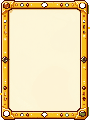
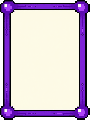
alfa 9f328dc: Fans of Swipe: marco morado para las reliquias y llama verde nueva para el fuego

diff --git a/alfa/index.html b/alfa/index.html
@@ -10,10 +10,10 @@
 <link rel="preconnect" href="https://fonts.googleapis.com">
 <link rel="preconnect" href="https://fonts.gstatic.com" crossorigin>
 <link rel="stylesheet" href="https://fonts.googleapis.com/css2?family=Baloo+2:wght@600;700;800&family=Luckiest+Guy&display=swap">
-<link rel="stylesheet" href="core/css/base.css?v=dfe9829">
-<link rel="stylesheet" href="biblioteca/tienda.css?v=dfe9829">
-<link rel="stylesheet" href="novedades/ventana.css?v=dfe9829">
-<link rel="stylesheet" href="biblioteca/votos.css?v=dfe9829">
+<link rel="stylesheet" href="core/css/base.css?v=9f328dc">
+<link rel="stylesheet" href="biblioteca/tienda.css?v=9f328dc">
+<link rel="stylesheet" href="novedades/ventana.css?v=9f328dc">
+<link rel="stylesheet" href="biblioteca/votos.css?v=9f328dc">
 <style>
   /* la entrada de la web: una tarjeta por juego, con los colores y las letras de core */
   body { overflow: auto; touch-action: auto; align-items: flex-start; background-repeat: no-repeat; background-attachment: fixed; }
@@ -61,7 +61,7 @@
 </style>
 </head>
 <body>
-<script src="menu.js?v=dfe9829" data-base="" data-core="1" data-pagina=""></script>
+<script src="menu.js?v=9f328dc" data-base="" data-core="1" data-pagina=""></script>
 <div class="nov-fondo" id="novedades" hidden>
   <div class="nov-caja" role="dialog" aria-modal="true" aria-labelledby="nov-titulo">
     <div class="nov-cabeza"><h2 class="ol" id="nov-titulo">NOVEDADES</h2><p id="nov-sub"></p></div>
@@ -339,8 +339,8 @@
   </section>
   <p class="note" id="pie-fansof">Fans Of™ · © 2026 Arkioner y Pepins · MicroBlizz · Todos los derechos reservados</p>
 </main>
-<script src="core/js/nucleo.js?v=0-a679.dfe9829"></script>
-<script src="core/js/novedades.js?v=dfe9829"></script>
+<script src="core/js/nucleo.js?v=0-a680.9f328dc"></script>
+<script src="core/js/novedades.js?v=9f328dc"></script>
 <script>
 // La cuenta de la web es la misma de los juegos (core/js/sistema/cuenta.js, mismo navegador = misma sesión). Aquí no hay partida que subir.
 const AJUSTES = { id: 'web', guardado: 'fansof-web' }, SAVE_KEY = AJUSTES.guardado, SAVE = {};
@@ -349,7 +349,7 @@ const HOOKS = {};
 function hook(name, fn) { (HOOKS[name] = HOOKS[name] || []).push(fn); }
 function fire(name, ...a) { let out = ''; for (const fn of HOOKS[name] || []) { const r = fn(...a); if (typeof r === 'string') out += r; } return out; }
 </script>
-<script src="core/js/sistema/cuenta.js?v=dfe9829"></script>
+<script src="core/js/sistema/cuenta.js?v=9f328dc"></script>
 <script>NUCLEO.idiomaSolo({ en: ['core/idioma/en-raiz.js', 'novedades/en.js', 'biblioteca/en.js','games/rumble/idioma/en-7.js', 'games/td/idioma/en-2.js', 'games/survivors/idioma/en.js', 'games/crush/idioma/en-raiz.js', 'games/jump/idioma/en-raiz.js', 'games/taxi/idioma/en-raiz.js', 'games/dark/idioma/en-raiz.js', 'games/nova/idioma/en-raiz.js', 'demos/beams/idioma/en-raiz.js', 'demos/snakes/idioma/en-raiz.js', 'demos/merge/idioma/en-raiz.js', 'demos/swipe/idioma/en-raiz.js', 'demos/pop/idioma/en-raiz.js', 'demos/vikings/idioma/en-raiz.js', 'demos/goose/idioma/en-raiz.js', 'demos/asalto/idioma/en-raiz.js', 'demos/auto/idioma/en-raiz.js', 'games/island/idioma/en-raiz.js', 'demos/rumble-3d/idioma/en-raiz.js', 'demos/roguelite/idioma/en-raiz.js', 'demos/tactics-advance/idioma/en-raiz.js', 'games/rouflage/idioma/en-raiz.js', 'demos/dungeons/idioma/en-raiz.js', 'games/karts/idioma/en-raiz.js', 'demos/recruit/idioma/en-raiz.js', 'demos/terminal-shock/idioma/en-raiz.js', 'games/ratkov/idioma/en-raiz.js'] })</script>
 <script>
 // La versión y las novedades salen de los archivos de cada juego, así que esta página nunca se queda atrás.
@@ -375,14 +375,14 @@ const fail = id => () => {
 };
 
 </script>
-<script src="core/js/proximamente.js?v=dfe9829"></script>
-<script src="novedades/ventana.js?v=dfe9829"></script>
-<script src="biblioteca/tienda.js?v=dfe9829"></script>
-<script src="core/js/sistema/beta.js?v=dfe9829"></script>
-<script src="biblioteca/cuenta-web.js?v=dfe9829"></script>
-<script src="biblioteca/votos.js?v=dfe9829"></script>
-<script src="biblioteca/alfa.js?v=dfe9829"></script>
-<script src="core/js/sistema/analitica.js?v=dfe9829"></script>
-<script src="pie.js?v=dfe9829" defer></script>
+<script src="core/js/proximamente.js?v=9f328dc"></script>
+<script src="novedades/ventana.js?v=9f328dc"></script>
+<script src="biblioteca/tienda.js?v=9f328dc"></script>
+<script src="core/js/sistema/beta.js?v=9f328dc"></script>
+<script src="biblioteca/cuenta-web.js?v=9f328dc"></script>
+<script src="biblioteca/votos.js?v=9f328dc"></script>
+<script src="biblioteca/alfa.js?v=9f328dc"></script>
+<script src="core/js/sistema/analitica.js?v=9f328dc"></script>
+<script src="pie.js?v=9f328dc" defer></script>
 </body>
 </html>

diff --git a/alfa/games/rouflage/index.html b/alfa/games/rouflage/index.html
@@ -10,7 +10,7 @@
 <link rel="preconnect" href="https://fonts.googleapis.com">
 <link rel="preconnect" href="https://fonts.gstatic.com" crossorigin>
 <link rel="stylesheet" href="https://fonts.googleapis.com/css2?family=Baloo+2:wght@600;700;800&family=Luckiest+Guy&display=swap">
-<script src="../../core/js/nucleo.js?v=0.2.63-a679.dfe9829"></script>
+<script src="../../core/js/nucleo.js?v=0.2.63-a680.9f328dc"></script>
 <script>NUCLEO.estilos('../../core/css/base.css', '../../core/css/menus.css', '../../core/css/menus-extra.css')</script>
 <script>NUCLEO.estilos('estilo.css', 'estilo-taller.css', 'estilo-pantallas.css', 'estilo-pvp.css', 'estilo-armario.css', 'estilo-menus.css', 'estilo-misiones.css', 'estilo-escenario.css', 'estilo-votos.css', 'estilo-gacha.css', 'estilo-compra.css', 'estilo-fin.css', 'estilo-talentos.css', 'estilo-chat.css', 'estilo-titulo.css', 'estilo-barra.css', 'estilo-sala-viva.css', 'estilo-obra.css', 'estilo-ayuda.css', 'estilo-carga.css')</script>      <!-- la intro, la última: pisa el #carga de estilo.css (antes iba en línea dentro de #carga) -->
 </head>

diff --git a/alfa/games/karts/index.html b/alfa/games/karts/index.html
@@ -8,7 +8,7 @@
 <meta name="description" content="Fans of Karts (juego): carreras de karts en pixel art de consola portátil con los líderes de Fans of Rumble. Tres pistas, seis pilotos, objetos con mala idea y Microblizz, que ha comprado la carrera.">
 <link rel="icon" type="image/png" href="img/icon-192.png">
 <link rel="apple-touch-icon" href="img/icon-192.png">
-<script src="../../core/js/nucleo.js?v=0.7.15-a679.dfe9829"></script>
+<script src="../../core/js/nucleo.js?v=0.7.15-a680.9f328dc"></script>
 <script>NUCLEO.estilos('../../core/css/base.css', '../../core/css/menus.css', '../../core/css/menus-tienda.css', '../../core/css/menus-extra.css', 'css/tienda.css', 'css/pvp.css')</script>
 <link rel="stylesheet" href="https://fonts.googleapis.com/css2?family=Baloo+2:wght@600;700;800&family=Luckiest+Guy&display=swap">
 <style>

diff --git a/alfa/games/dark/index.html b/alfa/games/dark/index.html
@@ -12,7 +12,7 @@
 <link rel="stylesheet" href="https://fonts.googleapis.com/css2?family=Baloo+2:wght@600;700;800&family=Luckiest+Guy&family=Press+Start+2P&family=Pixelify+Sans:wght@400;600;700&display=swap">
 <link rel="stylesheet" href="css/dark.css?v=0.2.4">
 <!-- Prototipo: no usa NUCLEO (tiene su propia partida guardada). Carga de core el arte, la música, los efectos y las cifras del Rumble.
-     VERSIÓN para desplegar.py (que la busca así): nucleo.js?v=0.2.7-a679.dfe9829' (aquí solo se anota; súbela junto al ?v= de los scripts). -->
+     VERSIÓN para desplegar.py (que la busca así): nucleo.js?v=0.2.7-a680.9f328dc' (aquí solo se anota; súbela junto al ?v= de los scripts). -->
 </head>
 <body>
 <canvas id="cv" aria-label="Mazmorra"></canvas>

diff --git a/alfa/games/rumble/index.html b/alfa/games/rumble/index.html
@@ -16,7 +16,7 @@
 <link rel="preconnect" href="https://fonts.gstatic.com" crossorigin>
 <link rel="stylesheet" href="https://fonts.googleapis.com/css2?family=Baloo+2:wght@600;700;800&family=Luckiest+Guy&display=swap">
 <!-- core/js/nucleo.js carga lo común y el juego. LA VERSIÓN SE ESCRIBE SOLO AQUÍ, en su ?v= -->
-<script src="../../core/js/nucleo.js?v=0.9.158-a679.dfe9829"></script>
+<script src="../../core/js/nucleo.js?v=0.9.158-a680.9f328dc"></script>
 <script>NUCLEO.estilos('../../core/css/menus.css', 'css/estilos-partida.css', 'css/estilos-extra.css', 'css/arena.css', '../../core/css/biblioteca.css', 'css/facciones-y-jefes.css', '../../core/css/clasificacion.css', 'css/frases.css', 'css/mitica.css', 'css/paletas.css')</script>
 
 </head>

diff --git a/alfa/games/jump/index.html b/alfa/games/jump/index.html
@@ -12,7 +12,7 @@
 <link rel="preconnect" href="https://fonts.gstatic.com" crossorigin>
 <link rel="stylesheet" href="https://fonts.googleapis.com/css2?family=Baloo+2:wght@600;700;800&family=Luckiest+Guy&display=swap">
 <!-- ?v= es la versión del juego (la misma en la web y en la app): súbela al publicar y pon su entrada en js/novedades.js -->
-<script src="../../core/js/nucleo.js?v=0.3.16-a679.dfe9829"></script>
+<script src="../../core/js/nucleo.js?v=0.3.16-a680.9f328dc"></script>
 <script>NUCLEO.estilos('../../core/css/base.css', '../../core/css/menus.css')</script>
 <style>
 /* Fans of Jump: un solo canvas a la resolución real de la pantalla, con los dibujos 3D. El mundo mide unos 200 de ancho y se

diff --git a/alfa/games/decks/index.html b/alfa/games/decks/index.html
@@ -15,7 +15,7 @@
 <link rel="preconnect" href="https://fonts.gstatic.com" crossorigin>
 <link rel="stylesheet" href="https://fonts.googleapis.com/css2?family=Baloo+2:wght@600;700;800&family=Luckiest+Guy&display=swap">
 <!-- core/js/nucleo.js carga lo común y el juego. LA VERSIÓN SE ESCRIBE SOLO AQUÍ, en su ?v= -->
-<script src="../../core/js/nucleo.js?v=0.2.21-a679.dfe9829"></script>
+<script src="../../core/js/nucleo.js?v=0.2.21-a680.9f328dc"></script>
 <script>NUCLEO.estilos('../../core/css/base.css', '../../core/css/menus.css', 'css/decks.css', 'css/decks-reunion.css', 'css/decks-anim.css', 'css/decks-campana.css', 'css/decks-lideres.css')</script>
 </head>
 <body>

diff --git a/alfa/demos/goose/index.html b/alfa/demos/goose/index.html
@@ -10,7 +10,7 @@
 <link rel="preconnect" href="https://fonts.gstatic.com" crossorigin>
 <link rel="stylesheet" href="https://fonts.googleapis.com/css2?family=Pixelify+Sans:wght@500;700&family=Pirata+One&display=swap">
 <!-- ?v= es la versión de la demo: súbela al publicar -->
-<script src="../../core/js/nucleo.js?v=0.3.1-a679.dfe9829"></script>
+<script src="../../core/js/nucleo.js?v=0.3.1-a680.9f328dc"></script>
 <script>NUCLEO.estilos('../../core/css/base.css', '../../core/css/menus.css')</script>
 <style>
 /* Fans of Goose: un solo canvas en vertical, a la resolución real del móvil. El mundo mide 200 de ancho. */

diff --git a/alfa/games/ratkov/index.html b/alfa/games/ratkov/index.html
@@ -13,7 +13,7 @@
 <link rel="preconnect" href="https://fonts.gstatic.com" crossorigin>
 <link rel="stylesheet" href="https://fonts.googleapis.com/css2?family=VT323&family=Russo+One&display=swap">
 <script src="https://cdnjs.cloudflare.com/ajax/libs/three.js/r128/three.min.js"></script>
-<script src="../../core/js/nucleo.js?v=0.2.29-a679.dfe9829"></script>
+<script src="../../core/js/nucleo.js?v=0.2.29-a680.9f328dc"></script>
 <script>NUCLEO.estilos('../../core/css/base.css', '../../core/css/menus.css')</script>
 <link rel="stylesheet" href="estilo.css?v=0.2.3">
 <link rel="stylesheet" href="estilo-refugio.css?v=0.2.3">

diff --git a/alfa/games/survivors/index.html b/alfa/games/survivors/index.html
@@ -15,7 +15,7 @@
 <link rel="preconnect" href="https://fonts.gstatic.com" crossorigin>
 <link rel="stylesheet" href="https://fonts.googleapis.com/css2?family=Baloo+2:wght@600;700;800&family=Luckiest+Guy&display=swap">
 <!-- core/js/nucleo.js carga lo común y el juego. LA VERSIÓN SE ESCRIBE SOLO AQUÍ, en su ?v= -->
-<script src="../../core/js/nucleo.js?v=0.1.71-a679.dfe9829"></script>
+<script src="../../core/js/nucleo.js?v=0.1.71-a680.9f328dc"></script>
 <script>NUCLEO.estilos('../../core/css/base.css', '../../core/css/menus.css', 'css/survivors.css', '../../core/css/biblioteca.css')</script>
 </head>
 <body>

diff --git a/alfa/games/td/index.html b/alfa/games/td/index.html
@@ -15,7 +15,7 @@
 <link rel="preconnect" href="https://fonts.gstatic.com" crossorigin>
 <link rel="stylesheet" href="https://fonts.googleapis.com/css2?family=Baloo+2:wght@600;700;800&family=Luckiest+Guy&display=swap">
 <!-- core/js/nucleo.js carga lo común y el juego. LA VERSIÓN SE ESCRIBE SOLO AQUÍ, en su ?v= -->
-<script src="../../core/js/nucleo.js?v=0.13.87-a679.dfe9829"></script>
+<script src="../../core/js/nucleo.js?v=0.13.87-a680.9f328dc"></script>
 <script>NUCLEO.estilos('../../core/css/base.css', 'css/td.css', '../../core/css/menus.css', '../../core/css/biblioteca.css')</script>
 </head>
 <body>

diff --git a/alfa/demos/snakes/index.html b/alfa/demos/snakes/index.html
@@ -10,7 +10,7 @@
 <link rel="preconnect" href="https://fonts.gstatic.com" crossorigin>
 <link rel="stylesheet" href="https://fonts.googleapis.com/css2?family=Baloo+2:wght@600;700;800&display=swap">
 <!-- ?v= es la versión de la demo: súbela al publicar -->
-<script src="../../core/js/nucleo.js?v=0.2.1-a679.dfe9829"></script>
+<script src="../../core/js/nucleo.js?v=0.2.1-a680.9f328dc"></script>
 <script>NUCLEO.estilos('../../core/css/base.css', '../../core/css/menus.css')</script>
 <style>
 /* Fans of Snakes: un solo canvas en vertical, a la resolución real del móvil. El mundo mide 200 de ancho. */
